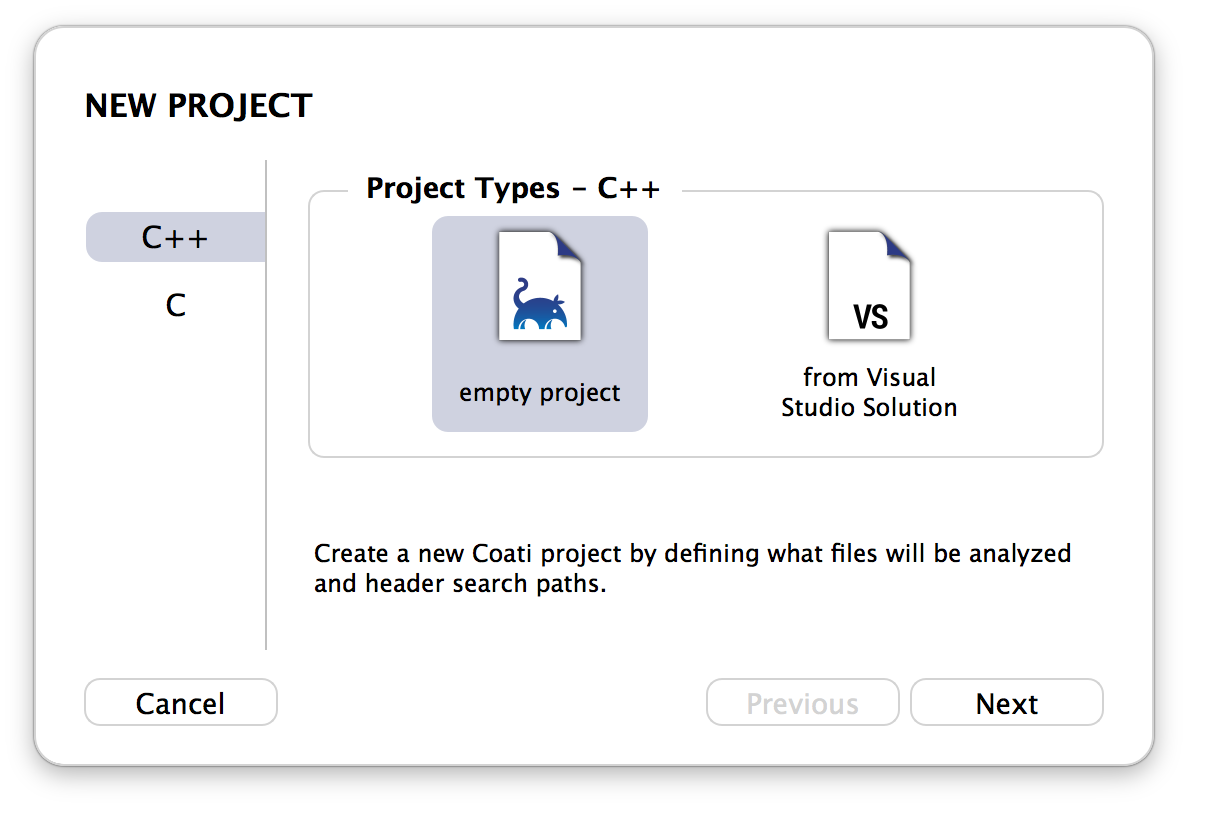
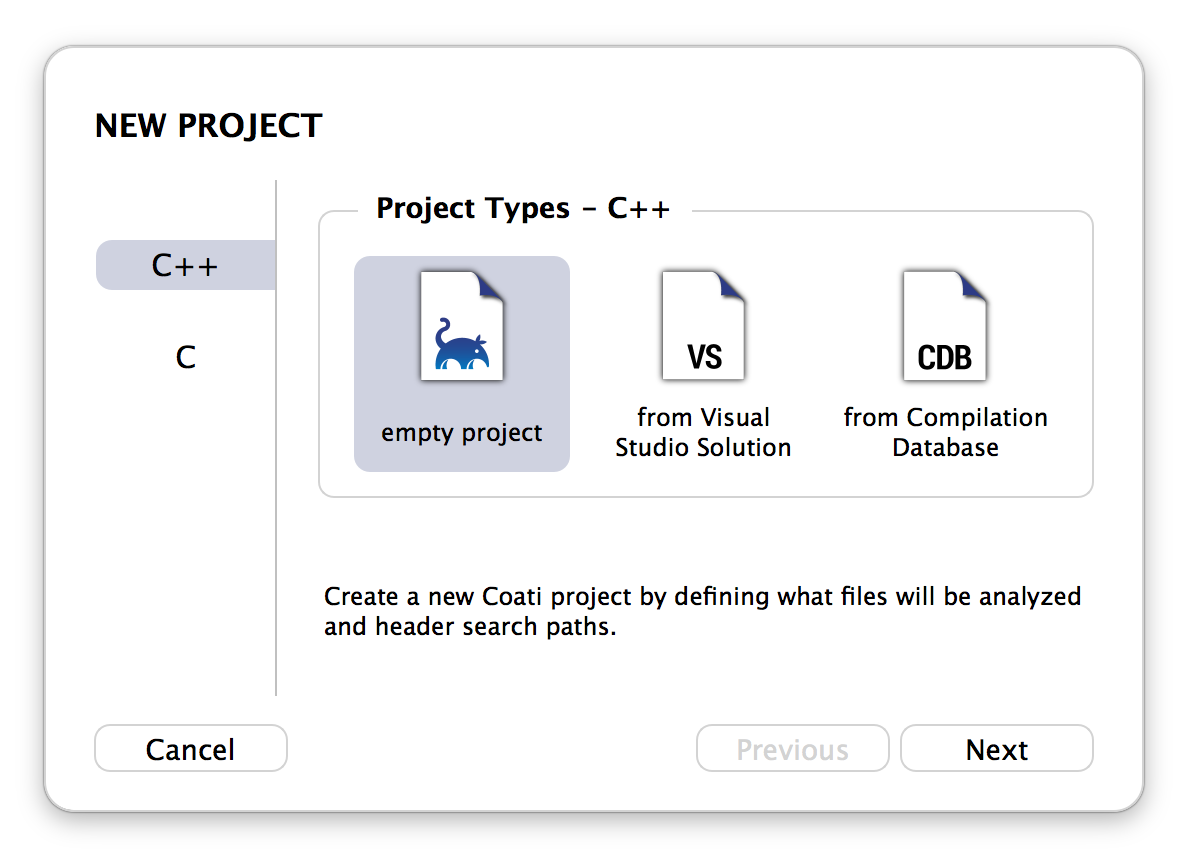
resource: Updated documentation and smaller fixes
* updated documentation of: cdb loading, advanced settings, graph view
* removed stats of search index
* added global search paths to cdb summary

Changed region(s): [[0.0, 0.0302, 0.9655, 0.9662]]

diff --git a/web/documentation/index.html b/web/documentation/index.html
@@ -454,9 +454,9 @@
 					</ul>
 
 					<h3>Path List Box</h3>
-					<p>The Path List Box is a user interface element that is used within the <a href="#PreferencesWindow">Preferences Window</a>  and the <a href="#ProjectSetupWizard">Project Setup Wizard</a>. It allows for entering a list of file and directory paths.</p>TODO: Replace
+					<p>The Path List Box is a user interface element that is used within the <a href="#PreferencesWindow">Preferences Window</a>  and the <a href="#ProjectSetupWizard">Project Setup Wizard</a>. It allows for entering a list of file and directory paths.</p>
 					<div class="row">
-						<div class="col-sm-6 col-sm-offset-3">
+						<div class="col-sm-10 col-sm-offset-1">
 							<img src="img/path_list_box.png" style="width:100%;">
 						</div>
 					</div>
@@ -595,6 +595,32 @@
 					<h4 id="CreateAProjectFromVisualStudioSolution">Create a Project from Visual Studio Solution</h4>
 					<p>If you already have a Visual Studio solution file, this is the way to go. Just select the solution file in the file picker and Coati will automatically analyze (this may take a second) it to prepopulate the <a href="#NewProjectSummary">New Project Summary Window</a>.</p>
 
+					<h4 id="CreateAProjectFromCompilationDatabase">Create a Project from Compilation Database</h4>
+					<p>If you are using <a href="https://cmake.org/">CMake</a> you can export compile commands by defining the flag <code>CMAKE_EXPORT_COMPILE_COMMANDS</code>. Just select the exportet <code>.json</code> file in the file picker.</p>
+
+					<strong>Compilation Database Headers</strong>
+					<p>In the next step you can define the locations of the corresponding header files of the source files in the compilation database.</p>
+					<p>These header files will only be analyzed if they are included in one of the source files.</p>
+					<div class="row">
+						<div class="col-sm-10 col-sm-offset-1">
+							<img src="img/project_setup_wizard_compilation_header.png" style="width:100%;">
+						</div>
+					</div>
+					<table class="table table-hover">
+						<thead>
+							<tr> <th>Setting</th> <th>Description</th> </tr>
+						</thead>
+						<tbody>
+							<tr> <th scope="row">Source Files</th> <td>Clicking <var>show source files</var> will show you a list of all source files in the compilation database</td> </tr>
+							<tr> <th scope="row">Header Paths</th> <td>Specify one or multiple locations that contain the header files to the source files defined in the compilation database. (For instructions on how to add paths see <a href="#PathListBox">Path List Box</a>.) Clicking <var>show header files</var> will show you the list of the header files that will be analyzed if included.</td> </tr>
+						</tbody>
+					</table>
+					<strong>Interactions:</strong>
+					<ul>
+						<li>Clicking <var>Cancel</var> or pressing <var>ESC</var> will close the window and abort the setup process.</li>
+						<li>Clicking <var>Next</var> will take you to the <a href="#NewProjectSummary">New Project Summary Window</a>.</li>
+						<li>Clicking <var>Previous</var> take you to the previous step of the setup process.</li>
+					</ul>
 
 					<h3>New Project Summary</h3>
 					<p>This window appears at the end of the <a href = "ProjectSetupWizard">Project Setup Wizard</a> to summarize all the information entered before. It is the same as the <a href="#EditProjectWindow">Edit Project Window</a>.</p>
@@ -615,9 +641,12 @@
 							<tr> <td scope="row">Language</td> <td>Select the language of your project. This setting is preselected according to your choice in the previous screen. (See <a href="#SupportedLanguages">Language Support</a>)</td> </tr>
 							<tr> <td scope="row">Standard</td> <td>Select the language standard that should be used for analyzing your project. Usually the most recent language standard is preselected here. (See <a href="#SupportedLanguages">Language Support</a>)</td> </tr>
 
-							<tr> <td scope="row">Visual Studio Solution</td> <td>Only when using Setup from Visual Studio Solution. Provide the path to your Visual Studio Solution. Clicking the refresh arrow inside the text box will refresh the Project Paths and the Header Search Paths below.</td> </tr>
-
 							<tr> <td scope="row">Project Paths</td> <td>Provide the paths that contain your project's files. Coati will analyze all the source and header files in the specified paths, including subdirectories.</td> </tr>
+
+							<tr> <td scope="row">Visual Studio Solution</td> <td>Only when using Setup from Visual Studio Solution. Provide the path to your Visual Studio Solution. Clicking the refresh arrow inside the text box will refresh the Project Paths and the Header Search Paths below.</td> </tr>
+							<tr> <td scope="row">Compilation Database</td> <td>Only when using Setup from Compilation Database. Provide the path to your Compilation Database.</td> </tr>
+							<tr> <td scope="row">Header Paths</td> <td>Only when using Setup from Compilation Database. Provide the paths to the corresponding header paths of your Compilation Database.</td> </tr>
+
 							<tr> <td scope="row">Simple Setup</td> <td>If this checkbox is checked Coati also looks into the analyzed paths (including subdirectories) when resolving <code>#include</code> directives.</td> </tr>
 							<tr> <td scope="row">Header Search Paths</td> <td>Specify where Coati should be looking for included headers.</td> </tr>
 							<tr> <td scope="row">Global Header Search Paths</td> <td>Same as Header Search Paths but these are used application wide for all of your Coati projects.</td> </tr>
@@ -632,6 +661,8 @@
 						</thead>
 						<tbody>
 							<tr> <td scope="row">Compiler Flags</td> <td>Define compiler flags used during analysis e.g. <code>-v</code></td> </tr>
+							<tr> <td scope="row">Header File Extensions</td> <td>Define extensions for header files including the dot e.g. <code>.h</code></td> </tr>
+							<tr> <td scope="row">Source File Extensions</td> <td>Define extensions for source files including the dot e.g. <code>.cpp</code></td> </tr>
 						</tbody>
 					</table>
 					<strong>Interactions:</strong>
@@ -940,10 +971,17 @@
 							<img src="img/graph_view.png" style="width:100%;">
 						</div>
 					</div>
-					<strong>Interactions:</strong>
+					<h4>Interactions:</h4>
+					<strong>Panning:</strong>
 					<ul>
-						<li>Scroll left-right and up-down for big graphs.</li>
-						<li>Drag the background area to move the whole graph for big graphs.</li>
+						<li>Drag the background area with the mouse.</li>
+						<li>Scroll left-right and up-down on the mouse pad.</li>
+						<li>Use the keys <kbd>WASD</kbd>.</li>
+					</ul>
+					<strong>Zooming:</strong>
+					<ul>
+						<li>Hold <kbd>Shift</kbd> and scroll with mouse wheel or mouse pad.</li>
+						<li>Press <kbd>Shift + WS</kbd>.</li>
 					</ul>
 
 					<h3>Nodes</h3>

diff --git a/src/lib/data/Storage.cpp b/src/lib/data/Storage.cpp
@@ -690,9 +690,10 @@ StorageStats Storage::getStorageStats() const
 	stats.nodeCount = m_sqliteStorage.getNodeCount();
 	stats.edgeCount = m_sqliteStorage.getEdgeCount();
 
-	stats.charCount = m_tokenIndex.getCharCount();
-	stats.wordCount = m_tokenIndex.getWordCount();
-	stats.searchNodeCount = m_tokenIndex.getNodeCount();
+	// Takes too much time
+	// stats.charCount = m_tokenIndex.getCharCount();
+	// stats.wordCount = m_tokenIndex.getWordCount();
+	// stats.searchNodeCount = m_tokenIndex.getNodeCount();
 
 	stats.fileCount = m_sqliteStorage.getFileCount();
 	stats.fileLOCCount = m_sqliteStorage.getFileLOCCount();

diff --git a/src/lib_gui/qt/window/project_wizzard/QtProjectWizzard.cpp b/src/lib_gui/qt/window/project_wizzard/QtProjectWizzard.cpp
@@ -534,6 +534,13 @@ void QtProjectWizzard::showSummary()
 				summary->addContent(headers, false, true);
 				connectShowFiles(headers);
 
+				summary->addContent(new QtProjectWizzardContentPathsHeaderSearchGlobal(settings, window), false, true);
+
+				if (QSysInfo::macVersion() != QSysInfo::MV_None)
+				{
+					summary->addContent(new QtProjectWizzardContentPathsFrameworkSearchGlobal(settings, window), false, false);
+				}
+
 				data->hideLanguage();
 			}
 
